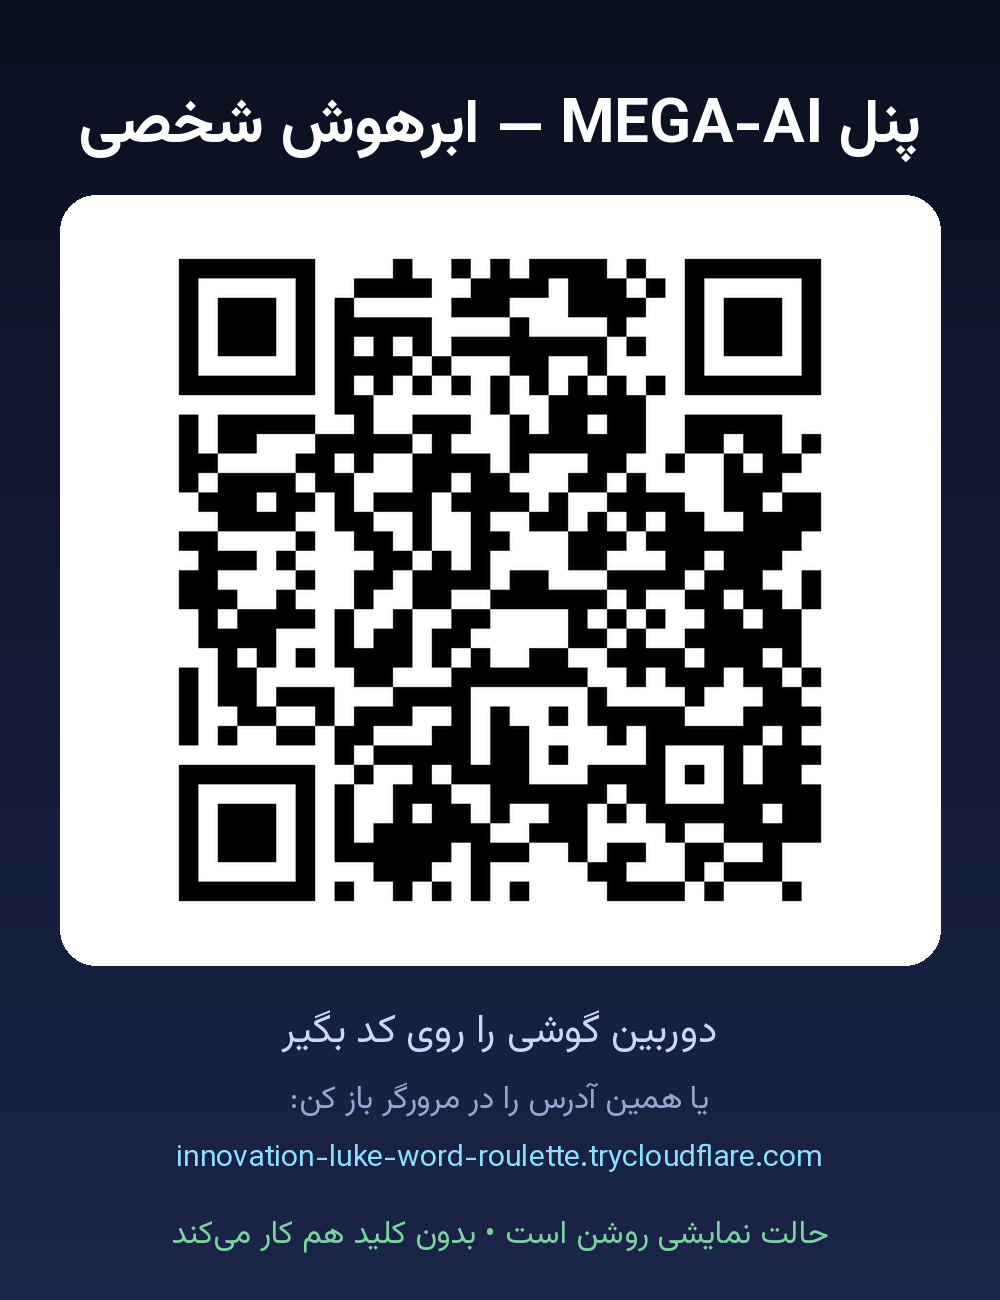
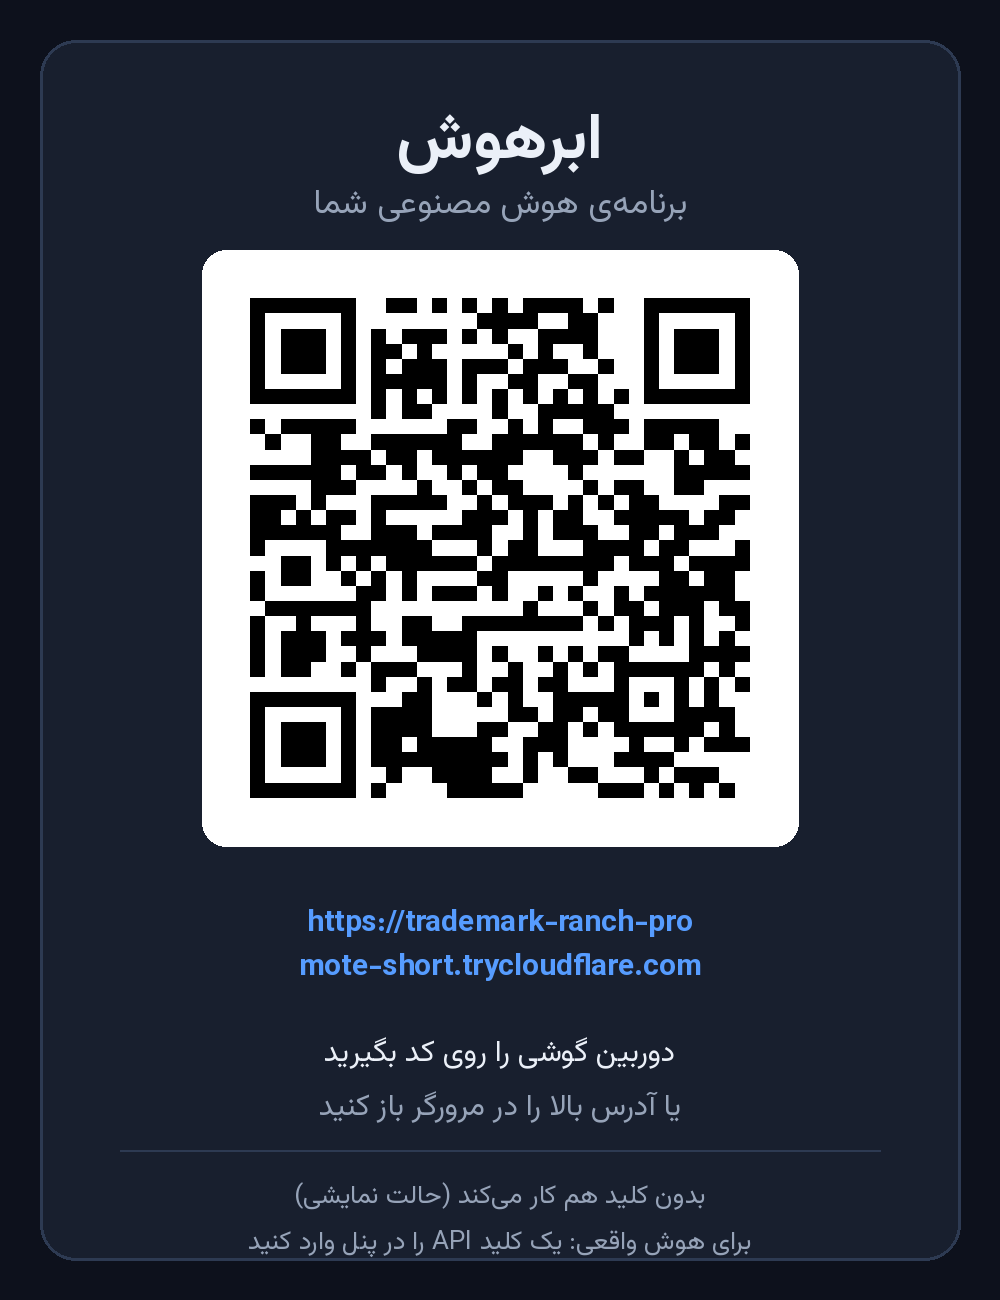
cloud_link.py + start_cloud.* : لینک عمومی از روی لپتاپ کاربر

diff --git a/cloud_link.py b/cloud_link.py
@@ -1,0 +1,278 @@
+#!/usr/bin/env python3
+# -*- coding: utf-8 -*-
+"""
+cloud_link.py — «ابرهوش» را روی لپتاپ خودت اجرا کن و یک لینک عمومی بگیر.
+
+چه کار میکند؟
+  1) اگر سرور بالا نیست، خودش server.py را اجرا میکند (پورت پیشفرض ۸۰۰۰)
+  2) cloudflared را (اگر نباشد) خودش دانلود میکند و تونل سریع میسازد
+  3) لینک عمومی https://....trycloudflare.com را چاپ میکند + پوستر QR میسازد
+
+نکتهی مهم: لینک تا وقتی این پنجره باز است زنده میماند (لپتاپ روشن = لینک باز).
+پس این با «سرور ابری» که من داخل چت میساختم فرق دارد: این پاک نمیشود.
+
+اجرا:   python cloud_link.py
+گزینهها:  --port 8000   --no-server   --no-qr   --cloudflared PATH
+"""
+from __future__ import annotations
+
+import argparse
+import os
+import platform
+import re
+import shutil
+import socket
+import subprocess
+import sys
+import tarfile
+import time
+import urllib.request
+from pathlib import Path
+
+ROOT = Path(__file__).resolve().parent
+TOOLS = ROOT / "tools"
+URL_RE = re.compile(r"https://[a-z0-9-]+\.trycloudflare\.com")
+
+
+# ───────────────────────── ابزارها ─────────────────────────
+def log(msg: str = "") -> None:
+    print(msg, flush=True)
+
+
+def asset_for_platform() -> tuple[str, str | None]:
+    """(نام فایل دانلود، پسوند استخراج) برای سیستمعامل فعلی."""
+    sysname = platform.system().lower()
+    machine = platform.machine().lower()
+    arm = machine in ("arm64", "aarch64")
+
+    if sysname == "windows":
+        return ("cloudflared-windows-amd64.exe" if not arm else "cloudflared-windows-arm64.exe", None)
+    if sysname == "darwin":
+        name = "cloudflared-darwin-arm64.tgz" if arm else "cloudflared-darwin-amd64.tgz"
+        return (name, ".tgz")
+    # linux
+    return ("cloudflared-linux-arm64" if arm else "cloudflared-linux-amd64", None)
+
+
+def find_cloudflared(explicit: str | None = None) -> Path | None:
+    if explicit:
+        p = Path(explicit).expanduser()
+        return p if p.exists() else None
+    env = os.environ.get("CLOUDFLARED")
+    if env and Path(env).expanduser().exists():
+        return Path(env).expanduser()
+    on_path = shutil.which("cloudflared")
+    if on_path:
+        return Path(on_path)
+    for cand in (TOOLS / "cloudflared", TOOLS / "cloudflared.exe", TOOLS / "cloudflared-darwin"):
+        if cand.exists():
+            return cand
+    return None
+
+
+def download_cloudflared() -> Path:
+    name, kind = asset_for_platform()
+    TOOLS.mkdir(parents=True, exist_ok=True)
+    url = f"https://github.com/cloudflare/cloudflared/releases/latest/download/{name}"
+    raw = TOOLS / name
+    log(f"⬇  دانلود cloudflared ({name}) …")
+    urllib.request.urlretrieve(url, raw)
+
+    if kind == ".tgz":
+        target = TOOLS / "cloudflared"
+        with tarfile.open(raw, "r:gz") as tf:
+            for m in tf.getmembers():
+                if m.name.endswith("cloudflared"):
+                    m.name = "cloudflared"
+                    tf.extract(m, TOOLS)
+                    break
+        raw.unlink(missing_ok=True)
+        binpath = target
+    else:
+        binpath = TOOLS / ("cloudflared.exe" if name.endswith(".exe") else "cloudflared")
+        if raw != binpath:
+            raw.replace(binpath)
+
+    try:
+        binpath.chmod(0o755)
+    except Exception:
+        pass
+    log(f"✅ cloudflared آماده شد: {binpath}")
+    return binpath
+
+
+def port_open(port: int, host: str = "127.0.0.1") -> bool:
+    with socket.socket() as s:
+        s.settimeout(0.6)
+        return s.connect_ex((host, port)) == 0
+
+
+def lan_ip() -> str:
+    """آیپی واقعی شبکهی محلی (link-local و لوکال را نادیده میگیرد)."""
+    try:
+        with socket.socket(socket.AF_INET, socket.SOCK_DGRAM) as s:
+            s.connect(("8.8.8.8", 80))
+            ip = s.getsockname()[0]
+    except Exception:
+        return ""
+    if ip.startswith("169.254.") or ip.startswith("127."):
+        return ""
+    return ip
+
+
+# ───────────────────────── QR ─────────────────────────
+def make_qr(url: str, out: Path) -> bool:
+    try:
+        import qrcode
+        from PIL import Image, ImageDraw, ImageFont
+    except Exception:
+        log("ℹ  qrcode/Pillow نصب نیست → پوستر QR ساخته نشد (pip install qrcode pillow)")
+        return False
+
+    W, H = 1000, 1300
+    BG, CARD, ACCENT, TXT, MUTED = (13, 17, 28), (24, 31, 46), (86, 156, 255), (235, 240, 248), (150, 163, 184)
+    img = Image.new("RGB", (W, H), BG)
+    d = ImageDraw.Draw(img)
+    d.rounded_rectangle([40, 40, W - 40, H - 40], radius=36, fill=CARD, outline=(45, 58, 82), width=3)
+
+    def font(size: int):
+        for name in ("Vazirmatn-Bold.ttf", "Vazirmatn-Regular.ttf"):
+            p = ROOT / "assets" / "fonts" / name
+            if p.exists():
+                try:
+                    return ImageFont.truetype(str(p), size)
+                except Exception:
+                    pass
+        return ImageFont.load_default()
+
+    def center(y: int, text: str, f, fill) -> None:
+        d.text(((W - d.textlength(text, font=f)) / 2, y), text, font=f, fill=fill)
+
+    center(92, "ابرهوش", font(64), TXT)
+    center(178, "برنامهی هوش مصنوعی شما", font(34), MUTED)
+
+    qr = qrcode.QRCode(box_size=10, border=2, error_correction=qrcode.constants.ERROR_CORRECT_M)
+    qr.add_data(url)
+    qr.make(fit=True)
+    qimg = qr.make_image(fill_color="black", back_color="white").convert("RGB").resize((560, 560))
+    qx, qy = (W - 560) // 2, 268
+    d.rounded_rectangle([qx - 18, qy - 18, qx + 578, qy + 578], radius=24, fill=(255, 255, 255))
+    img.paste(qimg, (qx, qy))
+
+    if len(url) <= 42:
+        center(900, url, font(30), ACCENT)
+    else:
+        half = len(url) // 2
+        center(900, url[:half], font(30), ACCENT)
+        center(944, url[half:], font(30), ACCENT)
+    center(1030, "دوربین گوشی را روی کد بگیرید", font(30), TXT)
+    center(1084, "یا آدرس بالا را در مرورگر باز کنید", font(30), MUTED)
+    d.line([120, 1150, W - 120, 1150], fill=(45, 58, 82), width=2)
+    center(1176, "بدون کلید هم کار میکند (حالت نمایشی)", font(26), MUTED)
+    center(1222, "برای هوش واقعی: کلید API را در پنل وارد کنید", font(26), MUTED)
+
+    img.save(out)
+    return True
+
+
+# ───────────────────────── اصلی ─────────────────────────
+def main() -> int:
+    ap = argparse.ArgumentParser(description="اجرای ابرهوش روی لپتاپ + لینک عمومی")
+    ap.add_argument("--port", type=int, default=int(os.environ.get("PORT", 8000)))
+    ap.add_argument("--no-server", action="store_true", help="سرور را خودت بالا آوردهای")
+    ap.add_argument("--no-qr", action="store_true")
+    ap.add_argument("--cloudflared", default=None)
+    args = ap.parse_args()
+
+    procs: list[subprocess.Popen] = []
+    log("=" * 62)
+    log("  ابرهوش — اجرای محلی + لینک عمومی (Cloudflare Tunnel)")
+    log("=" * 62)
+
+    # ۱) سرور
+    if args.no_server:
+        log(f"ℹ  فرض میکنیم سرور روی پورت {args.port} بالاست.")
+    elif port_open(args.port):
+        log(f"ℹ  پورت {args.port} از قبل باز است → سرور جدید اجرا نمیکنم.")
+    else:
+        log(f"🚀 اجرای سرور روی پورت {args.port} …")
+        procs.append(subprocess.Popen([sys.executable, str(ROOT / "server.py")], cwd=str(ROOT)))
+
+    # منتظر بالا آمدن سرور
+    for _ in range(40):
+        if port_open(args.port):
+            break
+        time.sleep(0.5)
+    else:
+        log("❌ سرور بالا نیامد. جدا اجرا کن:  python server.py")
+        for p in procs:
+            p.terminate()
+        return 1
+    log("✅ سرور آماده است.")
+
+    # ۲) cloudflared
+    cf = find_cloudflared(args.cloudflared)
+    if cf is None:
+        try:
+            cf = download_cloudflared()
+        except Exception as e:  # noqa: BLE001
+            log(f"❌ دانلود cloudflared نشد: {e}")
+            log("   دستی دانلود کن: https://github.com/cloudflare/cloudflared/releases")
+            for p in procs:
+                p.terminate()
+            return 1
+
+    cmd = [str(cf), "tunnel", "--url", f"http://localhost:{args.port}", "--no-autoupdate"]
+    log("🌐 ساخت تونل عمومی …")
+    tun = subprocess.Popen(cmd, stdout=subprocess.PIPE, stderr=subprocess.STDOUT, text=True, bufsize=1)
+    procs.append(tun)
+
+    url = ""
+    deadline = time.time() + 45
+    assert tun.stdout is not None
+    while time.time() < deadline:
+        line = tun.stdout.readline()
+        if not line:
+            if tun.poll() is not None:
+                break
+            continue
+        m = URL_RE.search(line)
+        if m:
+            url = m.group(0)
+            break
+
+    if not url:
+        log("❌ لینک عمومی ساخته نشد. متن تونل را ببین:")
+        for p in procs:
+            p.terminate()
+        return 1
+
+    log("")
+    log("  ✅ لینک عمومی برنامهی تو:")
+    log("")
+    log(f"     {url}")
+    log("")
+    ip = lan_ip()
+    if ip:
+        log(f"  📶 در همان وایفای (بدون اینترنت/VPN):  http://{ip}:{args.port}")
+    if not args.no_qr:
+        out = ROOT / "cloud_qr.png"
+        if make_qr(url, out):
+            log(f"  📱 پوستر QR: {out}")
+    log("")
+    log("  برای بستن: Ctrl+C  (تا وقتی لپتاپ روشن است لینک زنده میماند)")
+    log("=" * 62)
+
+    try:
+        tun.wait()
+    except KeyboardInterrupt:
+        log("\n⏹  بستن …")
+    finally:
+        for p in procs:
+            if p.poll() is None:
+                p.terminate()
+    return 0
+
+
+if __name__ == "__main__":
+    raise SystemExit(main())

diff --git a/make_qr.py b/make_qr.py
@@ -1,0 +1,94 @@
+# -*- coding: utf-8 -*-
+"""پوستر QR برای لینک عمومی برنامه (ابرهوش).
+استفاده:  python3 make_qr.py https://xxxx.trycloudflare.com [خروجی.png]
+نکته: فونت وزیرمتن از assets/fonts خوانده میشود؛ برای متن فارسی نیاز به libraqm است
+(در این پروژه رِشِیپینگ غیرفعال است و فونت خودش حروف را درست میچیند).
+"""
+import sys
+from pathlib import Path
+
+import qrcode
+from PIL import Image, ImageDraw, ImageFont
+
+ROOT = Path(__file__).resolve().parent
+FONT_BOLD = ROOT / "assets" / "fonts" / "Vazirmatn-Bold.ttf"
+FONT_REG = ROOT / "assets" / "fonts" / "Vazirmatn-Regular.ttf"
+
+W, H = 1000, 1300
+BG = (13, 17, 28)
+CARD = (24, 31, 46)
+ACCENT = (86, 156, 255)
+TXT = (235, 240, 248)
+MUTED = (150, 163, 184)
+
+
+def font(path, size):
+    try:
+        return ImageFont.truetype(str(path), size)
+    except Exception:
+        return ImageFont.load_default()
+
+
+def rtl(text):
+    """فقط برای اطمینان: متن باید از قبل منطقی باشد؛ اینجا خطوط کوتاه دستی چیده شدهاند."""
+    return text
+
+
+def center(d, y, text, f, fill):
+    w = d.textlength(text, font=f)
+    d.text(((W - w) / 2, y), text, font=f, fill=fill)
+    return w
+
+
+def build(url, out):
+    img = Image.new("RGB", (W, H), BG)
+    d = ImageDraw.Draw(img)
+
+    # کارت اصلی
+    d.rounded_rectangle([40, 40, W - 40, H - 40], radius=36, fill=CARD, outline=(45, 58, 82), width=3)
+
+    f_title = font(FONT_BOLD, 64)
+    f_sub = font(FONT_REG, 34)
+    f_url = font(FONT_BOLD, 30)
+    f_note = font(FONT_REG, 30)
+    f_foot = font(FONT_REG, 26)
+
+    center(d, 92, "ابرهوش", f_title, TXT)
+    center(d, 178, "برنامهی هوش مصنوعی شما", f_sub, MUTED)
+
+    # QR
+    qr = qrcode.QRCode(version=None, box_size=10, border=2,
+                       error_correction=qrcode.constants.ERROR_CORRECT_M)
+    qr.add_data(url)
+    qr.make(fit=True)
+    qimg = qr.make_image(fill_color="black", back_color="white").convert("RGB")
+    qimg = qimg.resize((560, 560), Image.NEAREST)
+    qx, qy = (W - 560) // 2, 268
+    d.rounded_rectangle([qx - 18, qy - 18, qx + 560 + 18, qy + 560 + 18], radius=24, fill=(255, 255, 255))
+    img.paste(qimg, (qx, qy))
+
+    # URL (دو تکه تا از کارت بیرون نزند)
+    y = 900
+    if len(url) <= 42:
+        center(d, y, url, f_url, ACCENT)
+    else:
+        head, tail = url[: len(url) // 2], url[len(url) // 2:]
+        center(d, y, head, f_url, ACCENT)
+        center(d, y + 44, tail, f_url, ACCENT)
+
+    center(d, 1030, "دوربین گوشی را روی کد بگیرید", f_note, TXT)
+    center(d, 1084, "یا آدرس بالا را در مرورگر باز کنید", f_note, MUTED)
+
+    d.line([120, 1150, W - 120, 1150], fill=(45, 58, 82), width=2)
+    center(d, 1176, "بدون کلید هم کار میکند (حالت نمایشی)", f_foot, MUTED)
+    center(d, 1222, "برای هوش واقعی: یک کلید API را در پنل وارد کنید", f_foot, MUTED)
+
+    img.save(out)
+    print("saved:", out, img.size)
+
+
+if __name__ == "__main__":
+    if len(sys.argv) < 2:
+        print(__doc__)
+        sys.exit(1)
+    build(sys.argv[1].strip(), sys.argv[2] if len(sys.argv) > 2 else str(ROOT / "cloud_qr.png"))
